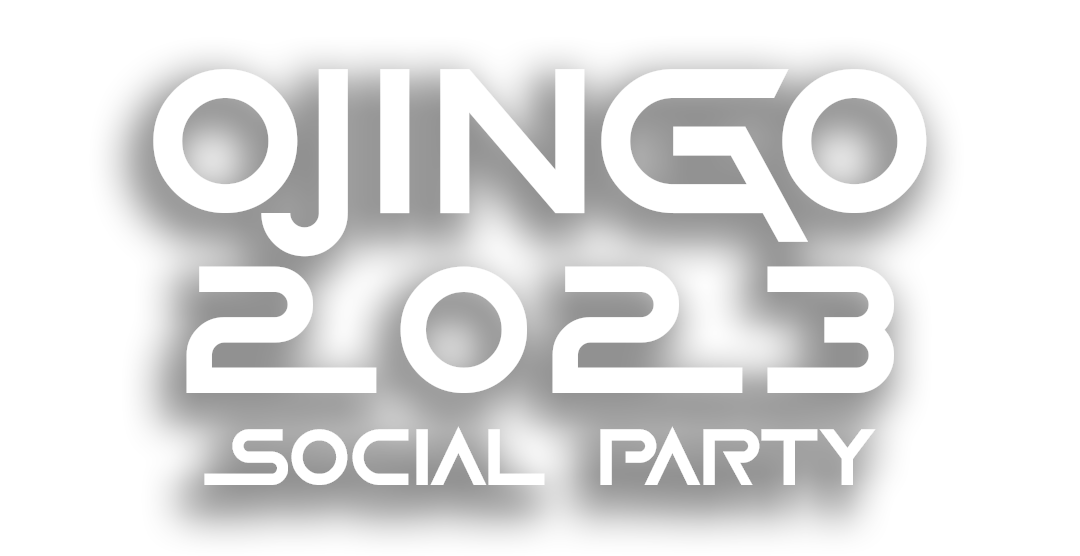
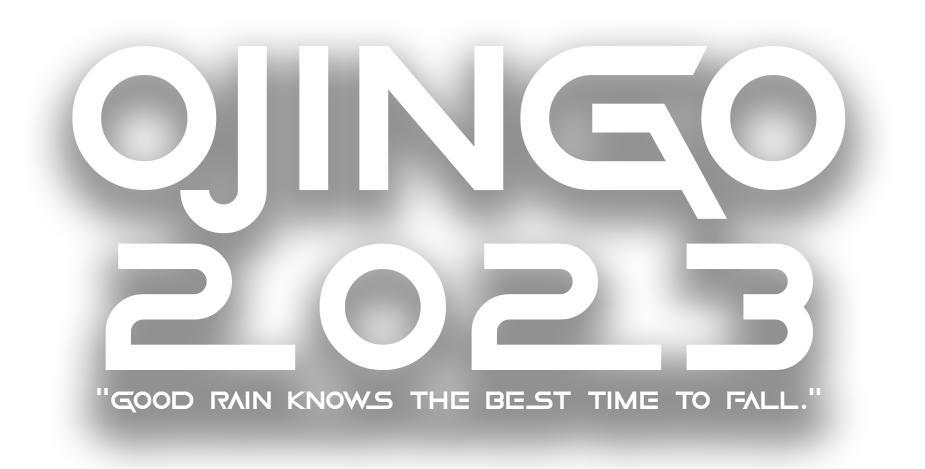
game day intro page and home page done

diff --git a/src/Components/Home.js b/src/Components/Home.js
@@ -1,23 +1,24 @@
 import React, { useEffect, useState } from "react";
 import styled from "styled-components";
-import { useNavigate } from "react-router-dom";
 
 //invitation
 import Site from "../assests/site.jpg";
 import Circle from "../assests/circle.png";
 import Square from "../assests/square.png";
 import Triangle from "../assests/triangle.png";
-import Heading from "../assests/text.png";
+import Heading from "../assests/page-2-topic.png";
 import FAS from "../assests/fas.png";
-import Background from "../assests/bg2.jpg";
-import ButtonText from "../assests/press_button_text.png";
-import Button from "../assests/button.png";
+import ButtonText from "../assests/page-2-heading.png";
+import Button1 from "../assests/button1.png";
+import Button2 from "../assests/button2.png";
+import Button3 from "../assests/button3.png";
+import HelpText from "../assests/help-text.png";
+import Help from "../assests/help.png";
 
 //music
 import sound from "../assests/music.mp3";
 
-function Invitation() {
-  const navigate = useNavigate();
+function Home() {
   const [loaded, setLoaded] = useState(false);
 
   const play = () => {
@@ -60,7 +61,15 @@ function Invitation() {
                 <div className="btn-text">
                   <img src={ButtonText} alt="button Text" />
                   <div className="btn">
-                    <img src={Button} alt="button" onClick={() => navigate("/home")} />
+                    <img src={Button1} alt="button1" />
+                    <img src={Button2} alt="button2" className="btn-inactive" />
+                    <img src={Button3} alt="button3" className="btn-inactive" />
+                  </div>
+                  <div className="help">
+                    <div className="text">
+                      <img src={HelpText} alt="help-text" />
+                      <img src={Help} alt="help" className="help-btn" />
+                    </div>
                   </div>
                 </div>
               </div>
@@ -75,7 +84,7 @@ function Invitation() {
   );
 }
 
-export default Invitation;
+export default Home;
 
 const Container = styled.div`
   width: 100vw;
@@ -171,15 +180,18 @@ const Container = styled.div`
     display: flex;
     flex-direction: column;
     align-items: center;
-    background-image: url(${Background});
+    background-color: var(--page-color);
     background-size: contain;
     position: relative;
     overflow: hidden;
     z-index: 0;
 
     .heading {
+      position: relative;
+      top: -10px;
+
       img {
-        width: 280px;
+        width: 320px;
       }
     }
 
@@ -205,7 +217,7 @@ const Container = styled.div`
       }
 
       .triangle {
-        box-shadow: 0 0 10px 0 var(--shadow);
+        /* box-shadow: 0 0 10px 0 var(--shadow); */
         transform-origin: 50% 50%;
         animation: moveTriangle 5s ease-in-out infinite alternate;
         animation-delay: 2s;
@@ -300,12 +312,19 @@ const Container = styled.div`
 
     .button-container {
       height: 100%;
+      display: flex;
       align-items: center;
       justify-content: center;
 
       .btn-text {
+        display: flex;
+        flex-direction: column;
+        align-items: center;
+        row-gap: 30px;
+        justify-content: center;
+
         img {
-          width: 100%;
+          width: 250px;
         }
 
         .btn {
@@ -314,13 +333,47 @@ const Container = styled.div`
           justify-content: center;
           position: relative;
           top: -20px;
+          width: 100%;
+          transform: scale(0.9);
 
           img {
-            width: 200px;
             cursor: pointer;
+            width: 100px;
+
+            &.btn-inactive {
+              cursor: none;
+              pointer-events: none;
+              opacity: 0.7;
+            }
+          }
+        }
+
+        .help {
+          position: relative;
+          top: -20px;
+
+          .text {
+            display: flex;
+            align-items: center;
+            justify-content: center;
+            flex-direction: column;
+
+            .help-btn {
+              width: 80px;
+              cursor: pointer;
+            }
+
+            img {
+              width: 200px;
+            }
           }
         }
       }
+    }
+
+    .footer {
+      position: relative;
+      top: -25px;
     }
   }
 `;

diff --git a/src/App.js b/src/App.js
@@ -1,7 +1,10 @@
 import React from "react";
 import styled from "styled-components";
 import { BrowserRouter as Router, Routes, Route } from "react-router-dom";
+
+//
 import Invitation from "./Components/Invitation";
+import Home from "./Components/Home";
 
 function App() {
   return (
@@ -9,6 +12,7 @@ function App() {
       <Router>
         <Routes>
           <Route exact path="/" element={<Invitation />} />
+          <Route exact path="/home" element={<Home />} />
         </Routes>
       </Router>
     </Container>

diff --git a/src/index.css b/src/index.css
@@ -1,5 +1,6 @@
 :root {
   --background-color: #252526;
+  --page-color: #037a76;
   --card-cover: #191919;
   --pink: #ed1b76;
   --shadow: rgba(0, 0, 0, 0.362);
